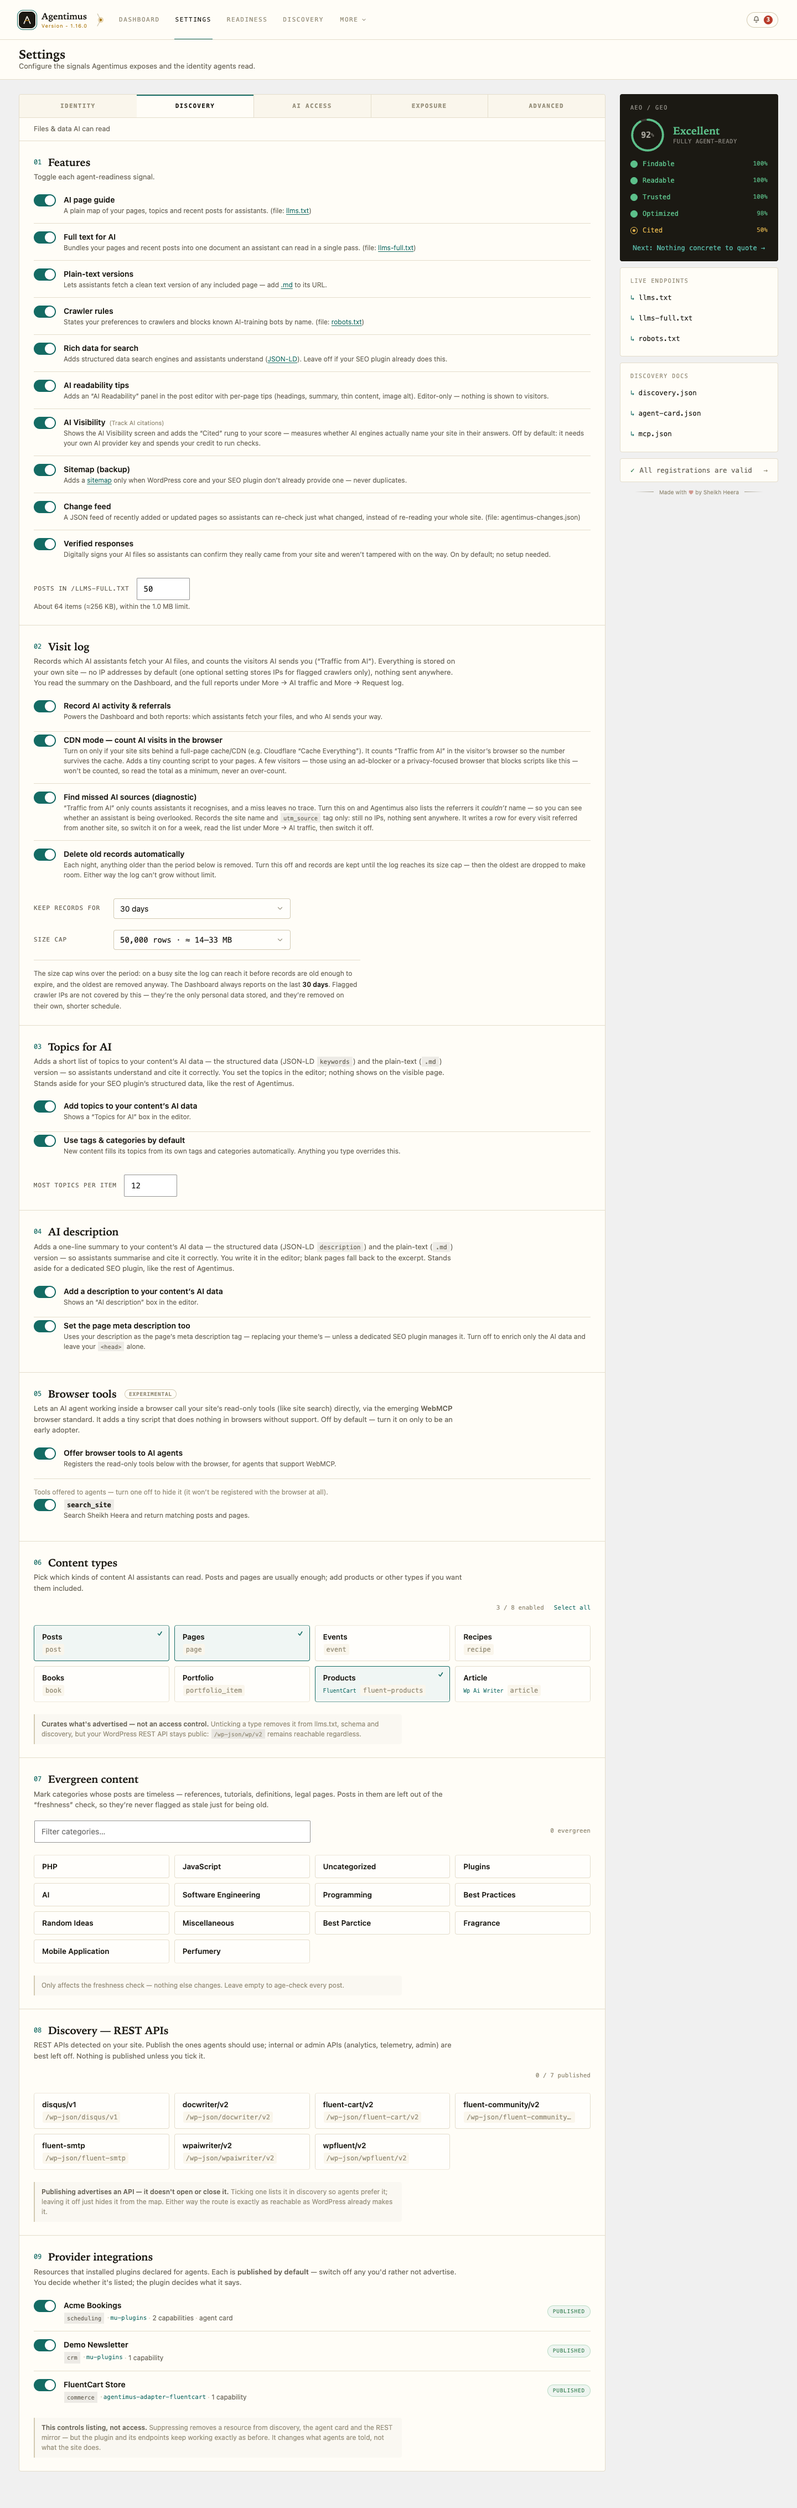
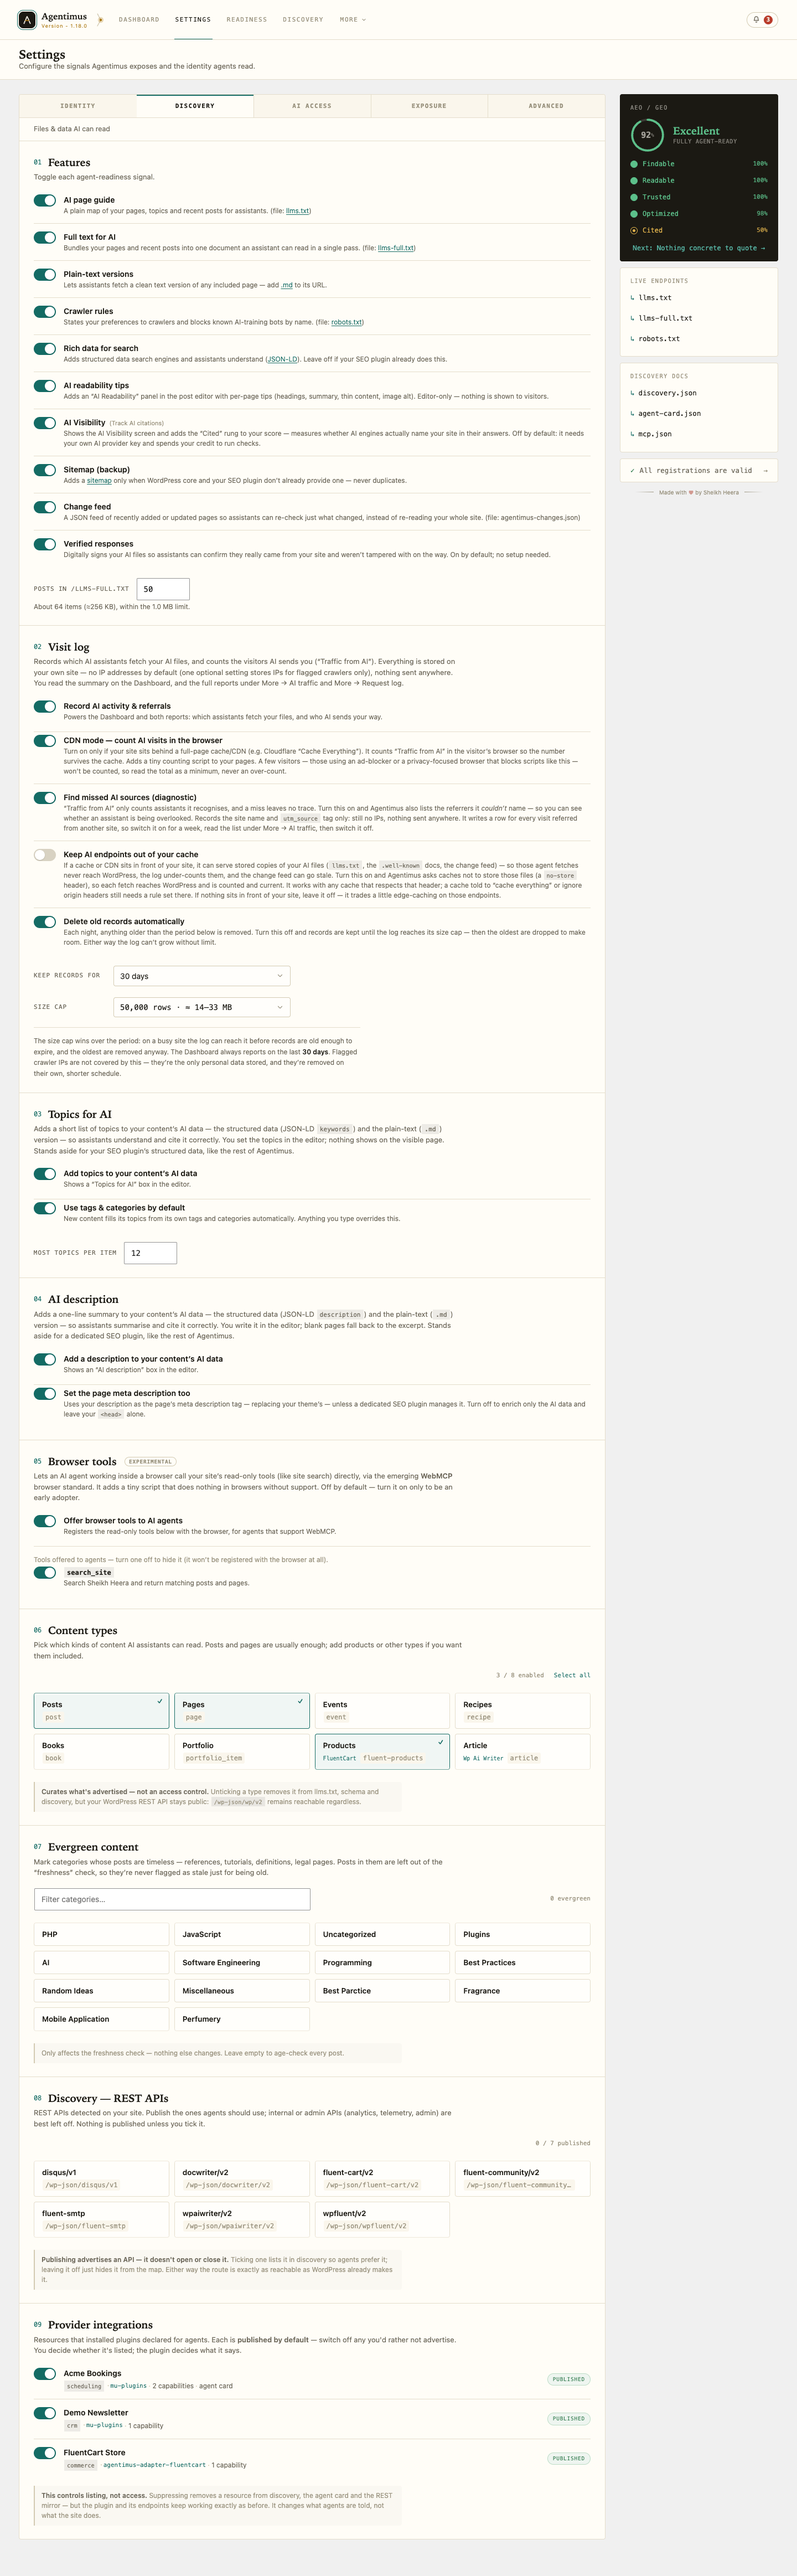
chore(release): prep 1.18.0 — cache toggle in About, changelog, README, docs + screenshot
Prepare the next release around the new "Keep AI endpoints out of your cache" switch (88803f0): bump to 1.18.0, add the changelog + upgrade notice, add it to the plugin About panel and the GitHub README (feature bullet + agentimus_bypass_shared_cache filter), and document it on the docs site (caching.md — which also fixes the old claim that the endpoints "already send no-store", true only for .md). Re-shot screenshot-2 (Settings → Discovery) to show the new toggle. Staged on main; tag to release.

diff --git a/resources/admin/components/AboutPanel.vue b/resources/admin/components/AboutPanel.vue
@@ -88,6 +88,7 @@ export default {
             { name: 'Traffic from AI', where: 'More → AI traffic', desc: 'Real visitors who arrived from ChatGPT, Perplexity, Gemini, Claude, Copilot, Grok, DeepSeek and more — day by day, by source and landing page. Some AI visits can’t be detected, so read it as a floor.', tag: 'On' },
             { name: 'Find missed AI sources', where: 'Settings → Visit log', desc: 'A diagnostic for the blind spot above: lists the referrers Agentimus could not name, so you can see whether an assistant is being overlooked and add it. Records the site name and utm tag only.', tag: 'Opt-in' },
             { name: 'CDN mode', where: 'Settings → Visit log', desc: 'Counts AI-referred visits in the visitor’s browser instead of on the server, so the number survives a full-page cache. For sites behind Cloudflare “Cache Everything” and the like.', tag: 'Opt-in' },
+            { name: 'Keep AI endpoints out of your cache', where: 'Settings → Visit log', desc: 'If a cache or CDN in front of your site serves stored copies of your AI files (llms.txt, the .well-known docs, the change feed), those agent fetches never reach WordPress — the log under-counts them and the change feed can go stale. This asks caches not to store those files, so each fetch is counted and current. Works with any cache that respects the standard no-store header; the readiness report links to it when it spots a cache in front of you.', tag: 'Opt-in' },
             { name: 'How long records live', where: 'Settings → Visit log', desc: 'Choose a retention period, whether old records are deleted nightly, and a hard size cap. The cap always applies — the log can never grow without limit.', tag: 'On' },
           ],
         },

diff --git a/agentimus.php b/agentimus.php
@@ -3,7 +3,7 @@
  * Plugin Name:       Agentimus
  * Plugin URI:        https://github.com/heera/agentimus
  * Description:       An AI-discovery layer for your site: a /.well-known discovery document, machine-readable pages (llms.txt, markdown, JSON-LD), AI-crawl controls, and a first-party agent-activity log. Lightweight, no SEO bloat.
- * Version:           1.17.0
+ * Version:           1.18.0
  * Requires at least: 6.0
  * Requires PHP:      7.4
  * Author:            Sheikh Heera
@@ -19,7 +19,7 @@ namespace Agentimus;
 
 defined( 'ABSPATH' ) || exit;
 
-define( 'AGENTIMUS_VERSION', '1.17.0' );
+define( 'AGENTIMUS_VERSION', '1.18.0' );
 define( 'AGENTIMUS_FILE', __FILE__ );
 define( 'AGENTIMUS_DIR', plugin_dir_path( __FILE__ ) );
 define( 'AGENTIMUS_URL', plugin_dir_url( __FILE__ ) );

diff --git a/README.md b/README.md
@@ -46,6 +46,7 @@ AEO/GEO-ready it is and what to fix next. Lightweight, no SEO bloat, no framewor
 - **Request log** (*More → Request log*) — the raw log behind that dashboard: one row per request, keyset-paged, filterable by client, endpoint, network, user-agent and date range. The filters AND together, giving the agent × endpoint cross-tab the summary rollups structurally cannot show.
 - **Traffic from AI** — a private, first-party count of which AI assistants send *visitors* to you (per-day tallies of assistant → landing page; no IP, no per-visitor data). The dashboard shows a summary; *More → AI traffic* is the full report, with a per-day drill-down of which assistant landed on which page. An opt-in **CDN mode** counts these in the browser so the numbers survive a full-page cache. Because recognition is a finite list, an opt-in **Find missed AI sources** diagnostic records the referrer hosts and `utm_source` tags it *couldn't* attribute — the only way to see a blind spot that otherwise leaves no trace.
 - **Visit-log retention** (*Settings → Visit log*) — a retention period, nightly auto-delete, and a hard row cap. The cap outranks the retention: "keep for 90 days" is a ceiling on age, not a promise a row survives 90 days. Turning auto-delete off does not mean "keep forever" — the cap still collects, oldest first.
+- **Keep AI endpoints out of your cache** (*Settings → Visit log*, opt-in) — if a cache or CDN in front of your site serves stored copies of the AI endpoints (`llms.txt`, the `.well-known` docs, the change feed), those agent fetches never reach WordPress: the log under-counts them and the change feed can go stale. Turn this on and the endpoints send `Cache-Control: no-store`, so any cache that respects it lets each fetch through. The readiness report links to it when it detects a cache in front of you.
 - **Activity to review** — a nav-bar review queue flags new, unusually high-volume, spoofed/scanner, or **impersonating** clients (one that claims to be a verifiable search engine — Googlebot, Bingbot, Applebot, DuckDuckBot, Yandex — but fails a reverse-DNS check), each with a plain "Check this bot" panel and one-click **Block** / **Allow** / **Ignore**. Pairs with the opt-in *Block scanners & scrapers* enforcement; an optional *Store IP addresses for flagged clients* setting shows the exact address to block.
 - **Exposure** — opt-in controls that limit what anonymous crawlers can read (username enumeration, author archives, the WP version, `<head>` links, XML-RPC), plus a one-click **exposed-files scan** that checks whether risky files (backups, `.env`, `debug.log`, keys) are publicly downloadable and tells you how to block them. Guidance, not a firewall.
 - **Factory reset** — one click restores every setting to its recommended defaults, with a preview of exactly what will change.
@@ -227,6 +228,7 @@ Advanced site-owner tuning — not a third-party integration surface.
 | `agentimus_unknown_sources_max_rows` | filter | `( int $max ): int` | Row cap on the opt-in "Find missed AI sources" table. `0` disables the cap. |
 | `agentimus_activity_skip_self` | filter | `( bool $skip ): bool` | Whether to skip recording hits from logged-in admins. Note this is evaluated from the logged-in cookie, not the current user, so it holds on REST routes that carry no nonce. |
 | `agentimus_activity_retention_days` | filter | `( int $days ): int` | How long agent hits are kept. Overrides the Settings → Visit log value. The Dashboard still reports on at most 30 days. Raise `agentimus_activity_max_rows` alongside it, or the row cap discards the extra days anyway. |
+| `agentimus_bypass_shared_cache` | filter | `( bool $on ): bool` | Force the AI endpoints uncacheable (send `Cache-Control: no-store`) so a shared cache/CDN can't hide agent fetches from the activity log. Overrides the *Settings → Visit log* switch. |
 | `agentimus_new_agent_seconds` | filter | `( int $seconds ): int` | The "new agent" window for the activity-to-review panel. |
 | `agentimus_burst_min_hits` | filter | `( int $hits ): int` | Minimum hits to flag a burst. |
 | `agentimus_heavy_min_hits` | filter | `( int $hits ): int` | Minimum hits to flag heavy usage. |

diff --git a/docs/user-manual/caching.md b/docs/user-manual/caching.md
@@ -15,7 +15,7 @@ A cache's whole job is to answer requests *without* bothering WordPress. That's 
 1. **Your Activity log under-counts.** A crawler or assistant fetches `/your-page.md`, the cache hands back a saved copy, WordPress never runs, and the hit is **never recorded**. Your "Top clients" and endpoint numbers become a *floor*, not a true total.
 2. **Freshness-sensitive endpoints go stale.** The **change feed** (`/agentimus-changes.json`) is meant to always be current so an assistant can fetch just what changed. If it's cached for hours, agents get an old delta. Your page `.md` twins can also lag behind edits.
 
-Agentimus already tells caches *not* to store these responses (it sends `Cache-Control: no-store`). But an aggressive CDN setting — most commonly **Cloudflare's "Cache Everything"** — overrides that and caches them anyway. That override can only be undone at the cache itself.
+By default these endpoints are **edge-cacheable** (`Cache-Control: public, max-age`) — bots fetch them a lot, so a little caching spares your origin. When a cache in front of you gets in the way, there are two ways to fix it: a single switch inside Agentimus (the easiest), or a rule at the cache itself (needed only for a cache told to *ignore* origin headers, most commonly **Cloudflare's "Cache Everything"**). Both are below.
 
 ## How to tell if it's happening
 
@@ -23,9 +23,15 @@ Open **Agentimus → Readiness** and click **Verify live**. This fetches your re
 
 *(Prefer the command line? `curl -I https://your-site.com/llms.txt` and look for `cf-cache-status: HIT` or an `age:` header — both mean a cache answered, not WordPress.)*
 
-## The fix: bypass the cache for your AI endpoints
+## The easiest fix: the built-in switch
 
-Tell your cache to **never store** these paths so every fetch reaches WordPress (and stays fresh):
+**Settings → Visit log → "Keep AI endpoints out of your cache."** Turn it on and Agentimus makes those endpoints send `Cache-Control: no-store` — asking every cache not to store them, so each fetch reaches WordPress (counted and current). No CDN dashboard, no server access.
+
+It works with any cache that **respects `Cache-Control`** — most do, including a default Nginx FastCGI cache (the plugin's own `.md` twins already rely on this). It does **not** beat a cache told to ignore origin headers or "cache everything" (most often **Cloudflare's "Cache Everything"** rule) — for those, set a rule at the cache itself, below. When the readiness report detects a cache in front of you, its warning links straight to this switch.
+
+## The complete fix: a rule at your cache
+
+If your cache ignores `Cache-Control` (or you'd rather be explicit at the edge), tell it to **never store** these paths so every fetch reaches WordPress (and stays fresh):
 
 | Path | What it is |
 |---|---|
